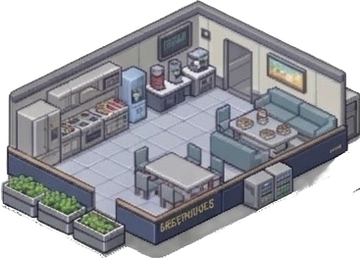
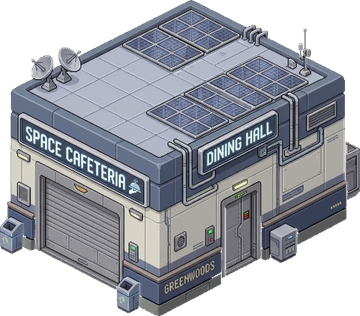
Nueva imagen del comedor, conectado solo por su puerta pequeña
Claude-Session: https://claude.ai/code/session_01RB7g75iJyQFP7gF6BAgh1m

diff --git a/index.html b/index.html
@@ -370,7 +370,7 @@ const B={
   shelter:{n:'Refugio de regolito',i:'⛰',ports:[[1,3],[3,1]],img:'refugio',fp:3,s:1.05,dy:.1,cost:25,e:0,pr:0,un:7,crater:true,desc:'Búnker medio enterrado. Protege de la radiación. ¡Se puede construir dentro de un cráter!',fact:'Una capa de 3 a 5 metros de regolito bloquea gran parte de la radiación del espacio.'},
   antenna:{n:'Antena',i:'📡',ports:[[1,2],[2,1]],img:'antena',fp:2,s:.8,dy:.03,cost:20,e:-1,pr:5,un:8,desc:'Guía a las naves con nuevos colonos y anuncia el clima (tormentas y frío) 1 o 2 soles antes.',fact:'Un mensaje tarda entre 4 y 24 minutos en viajar entre Marte y la Tierra. ¡No se puede hablar en directo!'},
   habitat:{n:'Hábitat',i:'🏠',ports:[[1,3],[3,1]],img:'habitat',inside:'habitat_interior',fp:3,s:1,dy:.03,cost:30,e:-2,cap:6,pr:2,un:9,desc:'Casa para 6 colonos. Sobre un tubo de lava caben 12.',fact:'Los tubos de lava son cuevas que dejaron los volcanes. Protegen de la radiación y de los micrometeoritos.'},
-  mess:{n:'Comedor',i:'🍽',ports:[[1,-1]],img:'comedor',fp:2,s:1,dy:.03,cost:20,e:-2,pr:6,un:9,desc:'Cocina y sala común. Comer juntos sube mucho el ánimo.',fact:'La convivencia en espacios pequeños es difícil. Compartir comidas ayuda a trabajar en equipo.'},
+  mess:{n:'Comedor',i:'🍽',ports:[[2,1]],img:'comedor',fp:2,s:1,dy:.03,cost:20,e:-2,pr:6,un:9,desc:'Cocina y sala común. Comer juntos sube mucho el ánimo.',fact:'La convivencia en espacios pequeños es difícil. Compartir comidas ayuda a trabajar en equipo.'},
   gym:{n:'Gimnasio',i:'🏋',ports:[[2,0],[1,-1]],img:'gimnasio',fp:2,s:1,dy:.03,cost:20,e:-2,pr:6,un:9,desc:'Mantiene fuertes huesos y músculos. Sube la salud y el ánimo.',fact:'En Marte la gravedad es el 38% de la terrestre. Sin ejercicio, los huesos y músculos se debilitan.'},
   repair:{n:'Taller de robots',i:'🦾',ports:[[2,0]],img:'taller',fp:2,s:1,dy:.03,cost:25,e:-2,pr:7,un:10,desc:'Sus robots reducen a la mitad el desgaste de todos los edificios y limpian el polvo de los paneles.',fact:'Los robots con sensores LiDAR hacen los trabajos más peligrosos fuera de la base.'},
   vfarm:{n:'Granja vertical',i:'🥬',ports:[[1,3]],img:'granja',fp:3,s:1,dy:.03,cost:45,e:-6,p:{comida:16,agua:-3},pr:3,un:10,req:'farm',desc:'Torres hidropónicas con luz LED. Mucha comida en poco espacio.',fact:'Las granjas verticales reciclan casi toda el agua y pueden cultivar con luz LED día y noche.'},
